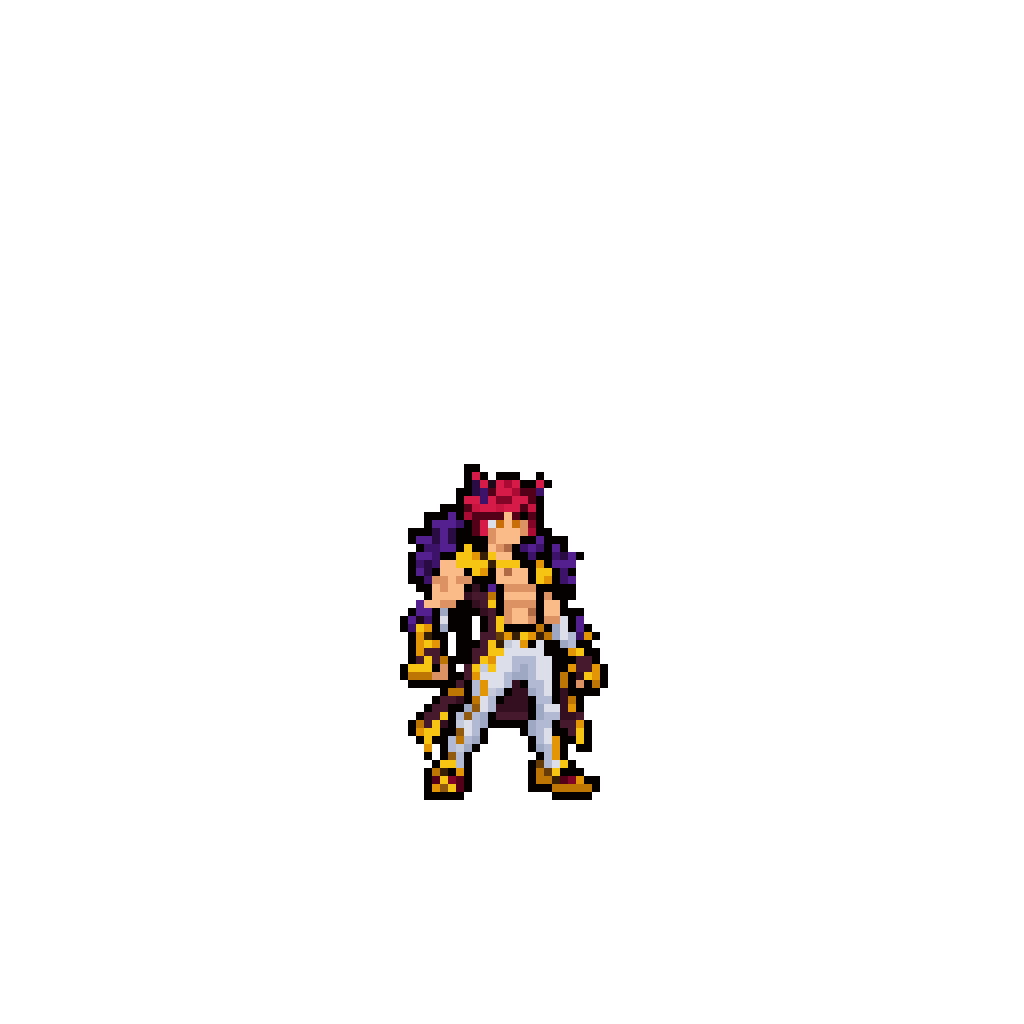
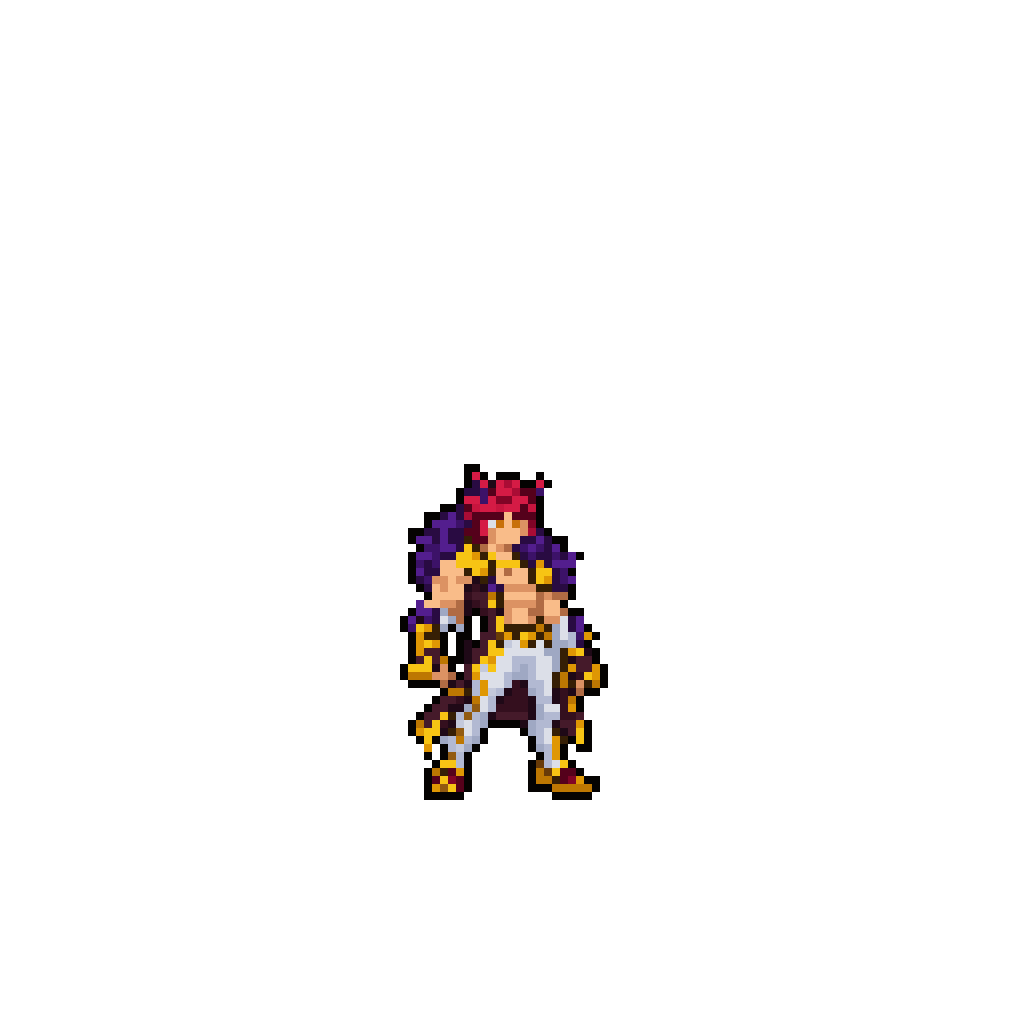
Sett's design: no black inside the body, only the outline
The draft's thin inner lines read back as thick black bands at 42 rows. An
outline-black square that does not touch the outside now takes the darkest
shade of the material around it, else of the darker material beside it (the
coat's darkest plum between the skin and the coat), filled from the outside
in; it replaces soften(). Black squares: 280 -> 147, still 26 colours.

Claude-Session: https://claude.ai/code/session_013ozFjjk4D3cQh1ENPPBVLj

Changed region(s): [[0.4062, 0.4688, 0.5938, 0.7188], [0.5312, 0.75, 0.5625, 0.7812]]

diff --git a/tools/art/design_sett.py b/tools/art/design_sett.py
@@ -12,9 +12,9 @@ colours (PALETTE, 25):
   - it is opaque when 45% of the block is (alpha 129 and up);
   - the outline's near-black wins a block it holds 40% of (inner lines stay); else the commonest colour;
   - a lone square whose four neighbours all share one other colour takes it (specks);
-  - an outline-black square inside the figure with three or four neighbours of one material takes that material's
-    darkest shade (the abs and the folds read back as black specks);
   - the outline is closed (strips.complete_outline);
+  - inside it no black: an outline-black square that does not touch the outside takes the darkest shade of the
+    darker material beside it (the draft's thin inner lines read back as thick black bands);
   - on the 128 x 128 canvas at 8x: the soles on row 99, the middle of the feet on column 64.
 """
 import argparse
@@ -129,28 +129,40 @@ def despeckle(a, feat):
     return o
 
 
-def soften(a):
-    """An outline-black square inside the figure with three or four 4-neighbours of one material (skin, trousers,
-    coat, mantle, hair, gold) takes that material's darkest shade: the draft's thin inner lines (the abs, the folds)
-    read back as black specks. Squares on the silhouette's edge stay."""
-    cols, _ = palette()
+def clean(a):
+    """Inner black goes: an outline-black square that does not touch the outside (no transparent 4-neighbour) takes
+    the darkest shade of the material around it (three of its 4-neighbours: the abs, the folds), else of the darker
+    material beside it (its 4-neighbours; else its diagonal ones: between the skin and the coat the coat's darkest
+    plum), filled from the outside in. The draft's thin inner lines read back as thick black bands at 42 rows; the
+    user: 「还有去掉身体上没用的黑色素 弄干净一点 现在非常不干净」. Only the outline around the silhouette stays black."""
     mat = {h: m for m, hs in PALETTE.items() for h in hs}
     darkest = {m: hs[0] for m, hs in PALETTE.items()}
+    lum = {m: 0.3 * int(h[0:2], 16) + 0.59 * int(h[2:4], 16) + 0.11 * int(h[4:6], 16) for m, h in darkest.items()}
+    name = lambda p: "%02X%02X%02X" % tuple(int(v) for v in p[:3])
+    n4 = ((-1, 0), (1, 0), (0, -1), (0, 1))
+    n8 = n4 + ((-1, -1), (-1, 1), (1, -1), (1, 1))
     H, W = a.shape[:2]
     o = a.copy()
-    name = lambda p: "%02X%02X%02X" % tuple(int(v) for v in p[:3])
-    for r in range(1, H - 1):
-        for c in range(1, W - 1):
-            if not a[r, c, 3] or name(a[r, c]) not in DARK:
-                continue
-            nb = [a[r + dy, c + dx] for dy, dx in ((-1, 0), (1, 0), (0, -1), (0, 1))]
-            if any(not p[3] for p in nb):
-                continue
-            ms = [mat.get(name(p)) for p in nb]
-            for m in set(ms) - {None, "outline"}:
-                if ms.count(m) >= 3:
-                    h = darkest[m] if m != "skin" else PALETTE["skin"][0]
-                    o[r, c] = (int(h[0:2], 16), int(h[2:4], 16), int(h[4:6], 16), 255)
+    op = a[..., 3] > 0
+    inside = lambda r, c: 0 <= r < H and 0 <= c < W and op[r, c]
+    todo = {(r, c) for r in range(H) for c in range(W)
+            if op[r, c] and name(a[r, c]) in DARK and all(inside(r + dy, c + dx) for dy, dx in n4)}
+    while todo:
+        new = {}
+        for r, c in todo:
+            near = lambda nb: {mat[name(o[r + dy, c + dx])] for dy, dx in nb
+                               if inside(r + dy, c + dx) and (r + dy, c + dx) not in todo
+                               and name(o[r + dy, c + dx]) not in DARK}
+            ring = [mat.get(name(o[r + dy, c + dx])) for dy, dx in n4 if (r + dy, c + dx) not in todo]
+            most = [m for m in set(ring) - {None, "outline"} if ring.count(m) >= 3]
+            ms = most or near(n4) or near(n8)
+            if ms:
+                new[(r, c)] = darkest[min(ms, key=lambda m: lum[m])]
+        if not new:
+            break
+        for (r, c), h in new.items():
+            o[r, c] = (int(h[0:2], 16), int(h[2:4], 16), int(h[4:6], 16), 255)
+        todo -= set(new)
     return o
 
 
@@ -165,8 +177,8 @@ def figure(rows=ROWS):
     left = (x0 + x1) / 2 - W * px / 2
     fig, feat = read_blocks(src, left, bottom, px, W, rows, cols, pal)
     fig = despeckle(fig, feat)
-    fig = soften(fig)
     fig, _, _ = G.complete_outline(fig, feet=rows - 1)
+    fig = clean(fig)
     xs = np.nonzero(fig[..., 3].any(0))[0]
     fig = fig[:, xs.min():xs.max() + 1].copy()
     if rows == ROWS:

diff --git a/README.md b/README.md
@@ -2215,7 +2215,7 @@ python tools/art/preview_sivir.py
 | 技能2 | W「蓄意轰拳」：冷却 9 秒。被动「豪意」：挨打攒豪意，最多 5 层，4 秒没挨打就散。施放时消耗全部豪意，得到 50 + 20% 攻击力的护盾（每层 +30 + 25%），3 秒；蓄力约 0.5 秒后向前轰出一拳（出手时就锁定了方向，可以躲开）：拳头范围内 40 + 70% 物理伤害，正中一条再受 30 + 30% 真实伤害（每层 +10 + 8%） |
 | 大招 | R「叹为观止」：冷却 50 秒，对 30000 内的敌方英雄。抓住他（眩晕到砸地之后），往前扔出 24000，自己同速跳着追上去砸地：半径 26000 内的敌人受到 120 + 100% 攻击力 + 各自 4% 最大生命值的物理伤害、减速 99% 0.5 秒，被扔的英雄再受 6% 最大生命值；整个过程免疫控制 |
 | 数值 | 攻击 90（+18）、生命 1100（+110）、护甲 34（+8）、魔抗 26（+4）、移速 1000（+11）、生命回复 5（+2）。按原版范围和德莱厄斯、亚托克斯定的初稿，还没在 SDK 上模拟 |
-| 精灵图 | 制作中：第 0 步原画（[`assets/source/sett/PICTURE_PROMPT.md`](assets/source/sett/PICTURE_PROMPT.md)）Codex 画了 A（英雄联盟的待机：挺胸抬下巴）、B（拳击架势），用户选 A（[`codex_picture/`](assets/source/sett/codex_picture/)）；第 1 步按游戏尺寸画造型（[`MODEL_PROMPTS.md`](assets/source/sett/MODEL_PROMPTS.md)，包由 `tools/art/pack_sett_model.py` 生成）：耳尖到脚底 42 格，头 13 / 11 格两版，原画的头只占 16%，缩下来脸会糊。第一轮（[`codex_model/`](assets/source/sett/codex_model/)）Codex 没画在游戏尺寸上：原稿按自己的格子读回是 50×81（B）和 78×118（A），交的 42 格版是缩小再把头和身体分开重采样拼的，脸、毛领、拳头碎成杂点；原稿 B 本身干净，第二轮的包（[`MODEL_REDO.md`](assets/source/sett/MODEL_REDO.md)，`tools/art/pack_sett_model_redo.py`）没有发出：用户「直接用这个然后你慢慢调整就行了」，造型直接从原稿 B 读到 42 行（`tools/art/design_sett.py`，蔚的做法：每个游戏像素读它覆盖的那块原稿，颜色归到原稿自己的 25 色，描边的黑占 40% 就保留，零星单格并掉，身体里被同一种材质包住的黑点换成那种材质最深的颜色，补齐描边），脸照规则手画：眉毛用头发最深的红，一行眼睛——近眼白色高光旁一格深琥珀色的虹膜、远眼一格琥珀色，嘴是一格阴影，琥珀色只有眼睛有（第一版眼睛下面还有一行琥珀色，用户：「这两坨黄的有点怪吧」，三种脸里选了这种：「用option2」；之后照原稿 B 的眼睛试画过 3×2 的大眼睛——深色眼睑、白色高光、琥珀色虹膜、黑瞳、下面一行亮金，用户：「就用option2吧」），26 × 42，26 色（[`assets/source/native/sett_native.png`](assets/source/native/sett_native.png)）；参考是用户从本机客户端导出的原画和模型渲染（Riot 素材，不进仓库），英雄联盟的动作关键帧留给第 2 步。动作标签：`idle` `run` `attack`（左拳）`attack2`（右拳）`skill`（E）`skill2`（W）`ult`（抓起扔出）`ult_dash`（跃起）`ult_slam`（砸地）`hit` `dead`；特效图集 `league_sett_fx` / `league_sett_big` |
+| 精灵图 | 制作中：第 0 步原画（[`assets/source/sett/PICTURE_PROMPT.md`](assets/source/sett/PICTURE_PROMPT.md)）Codex 画了 A（英雄联盟的待机：挺胸抬下巴）、B（拳击架势），用户选 A（[`codex_picture/`](assets/source/sett/codex_picture/)）；第 1 步按游戏尺寸画造型（[`MODEL_PROMPTS.md`](assets/source/sett/MODEL_PROMPTS.md)，包由 `tools/art/pack_sett_model.py` 生成）：耳尖到脚底 42 格，头 13 / 11 格两版，原画的头只占 16%，缩下来脸会糊。第一轮（[`codex_model/`](assets/source/sett/codex_model/)）Codex 没画在游戏尺寸上：原稿按自己的格子读回是 50×81（B）和 78×118（A），交的 42 格版是缩小再把头和身体分开重采样拼的，脸、毛领、拳头碎成杂点；原稿 B 本身干净，第二轮的包（[`MODEL_REDO.md`](assets/source/sett/MODEL_REDO.md)，`tools/art/pack_sett_model_redo.py`）没有发出：用户「直接用这个然后你慢慢调整就行了」，造型直接从原稿 B 读到 42 行（`tools/art/design_sett.py`，蔚的做法：每个游戏像素读它覆盖的那块原稿，颜色归到原稿自己的 25 色，描边的黑占 40% 就保留，零星单格并掉，补齐描边；用户：「还有去掉身体上没用的黑色素 弄干净一点 现在非常不干净」——只留轮廓外圈的黑描边，身体里面的黑格从外往里换成材质的最深色：被一种材质包住的用那种材质的，两种材质交界的用较暗那种的（皮肤和外套之间是外套的深梅色，挨着毛领是深紫），黑格从 280 减到 147），脸照规则手画：眉毛用头发最深的红，一行眼睛——近眼白色高光旁一格深琥珀色的虹膜、远眼一格琥珀色，嘴是一格阴影，琥珀色只有眼睛有（第一版眼睛下面还有一行琥珀色，用户：「这两坨黄的有点怪吧」，三种脸里选了这种：「用option2」；之后照原稿 B 的眼睛试画过 3×2 的大眼睛——深色眼睑、白色高光、琥珀色虹膜、黑瞳、下面一行亮金，用户：「就用option2吧」），26 × 42，26 色（[`assets/source/native/sett_native.png`](assets/source/native/sett_native.png)）；参考是用户从本机客户端导出的原画和模型渲染（Riot 素材，不进仓库），英雄联盟的动作关键帧留给第 2 步。动作标签：`idle` `run` `attack`（左拳）`attack2`（右拳）`skill`（E）`skill2`（W）`ult`（抓起扔出）`ult_dash`（跃起）`ult_slam`（砸地）`hit` `dead`；特效图集 `league_sett_fx` / `league_sett_big` |
 | 音效 | 从本地客户端提取的 13 条技能音效和 3 条中文语音（E、W、R 出手），`.sound_info` 写明每个技能放哪几条。版权属于 Riot Games，**不提交到仓库**，按下面的命令在本地生成 |
 | 图标 | 官方技能图标（E / W / R），从本地客户端提取，缩到 64×64 |
 
